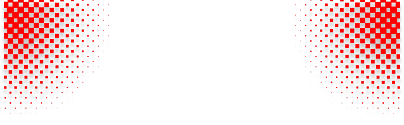
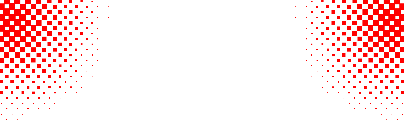
fixed & updated assets

diff --git a/gymsaga/lib/profile.dart b/gymsaga/lib/profile.dart
@@ -17,6 +17,7 @@ class ProfilePage extends StatelessWidget {
               right: 0,
               child: Image.asset(
                 'assets/widgets/background/decor_atas.png',
+                width: double.infinity,
                 fit: BoxFit.cover,
               ),
             ),

diff --git a/gymsaga/lib/main.dart b/gymsaga/lib/main.dart
@@ -18,7 +18,7 @@ class MainApp extends StatelessWidget {
       theme: ThemeData(
         fontFamily: 'Jersey25',
       ),
-      home: HomePage(),
+      home: ProfilePage(),
     );
   }
 }
